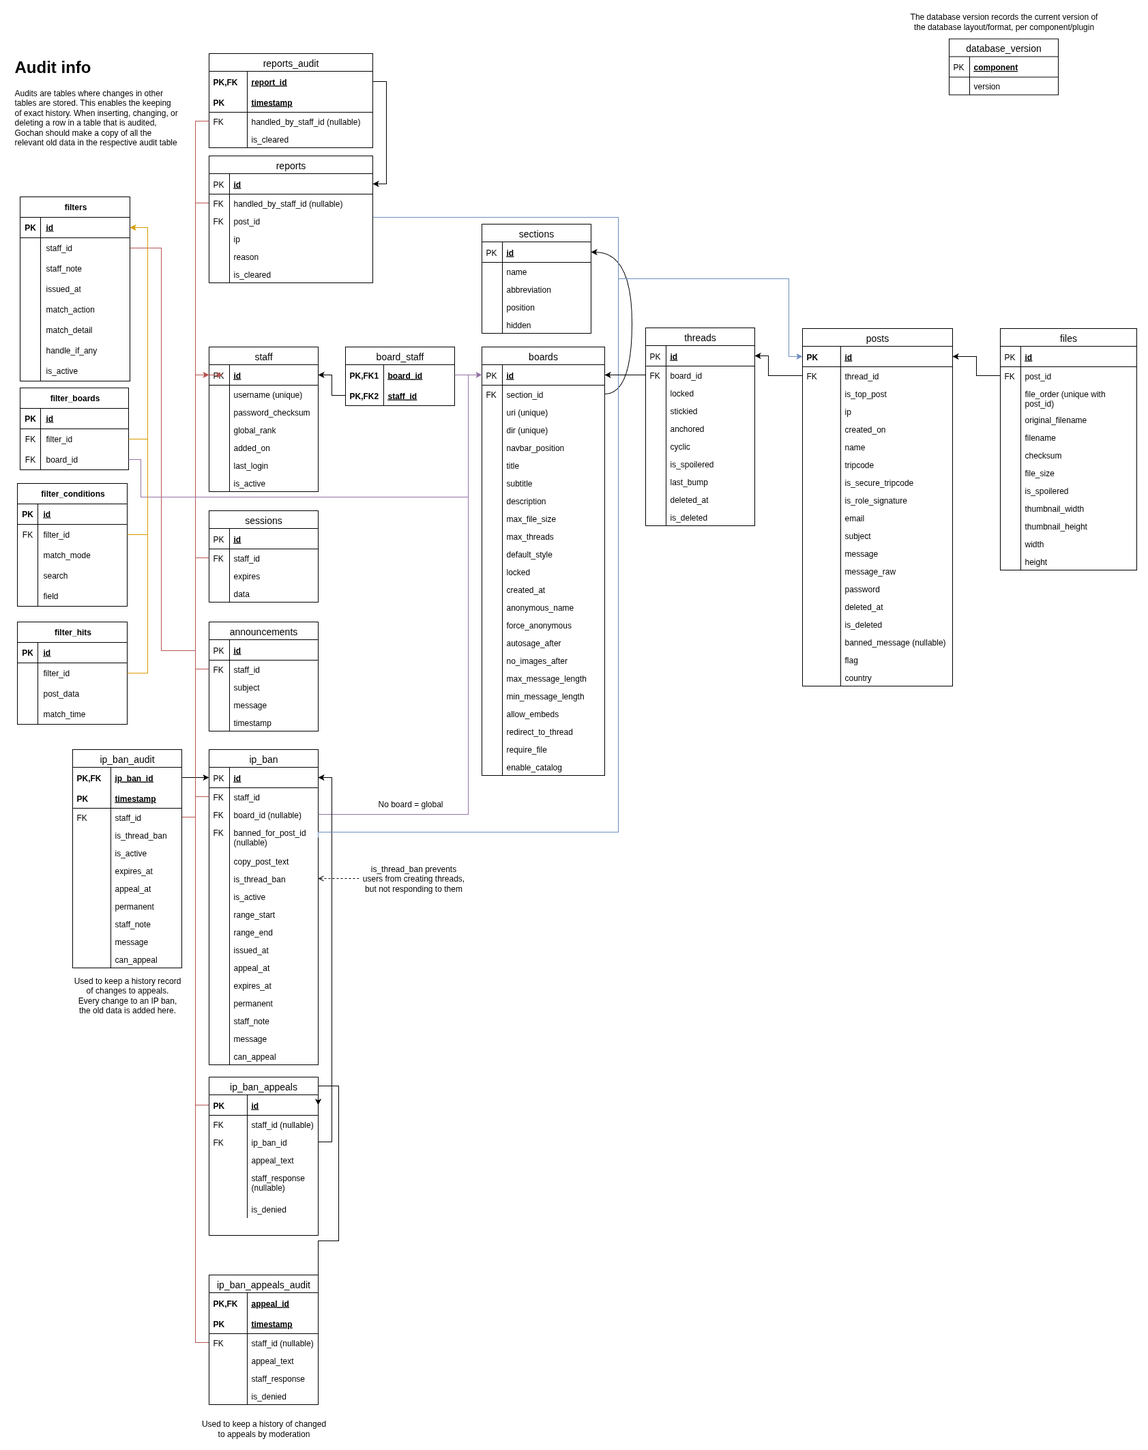
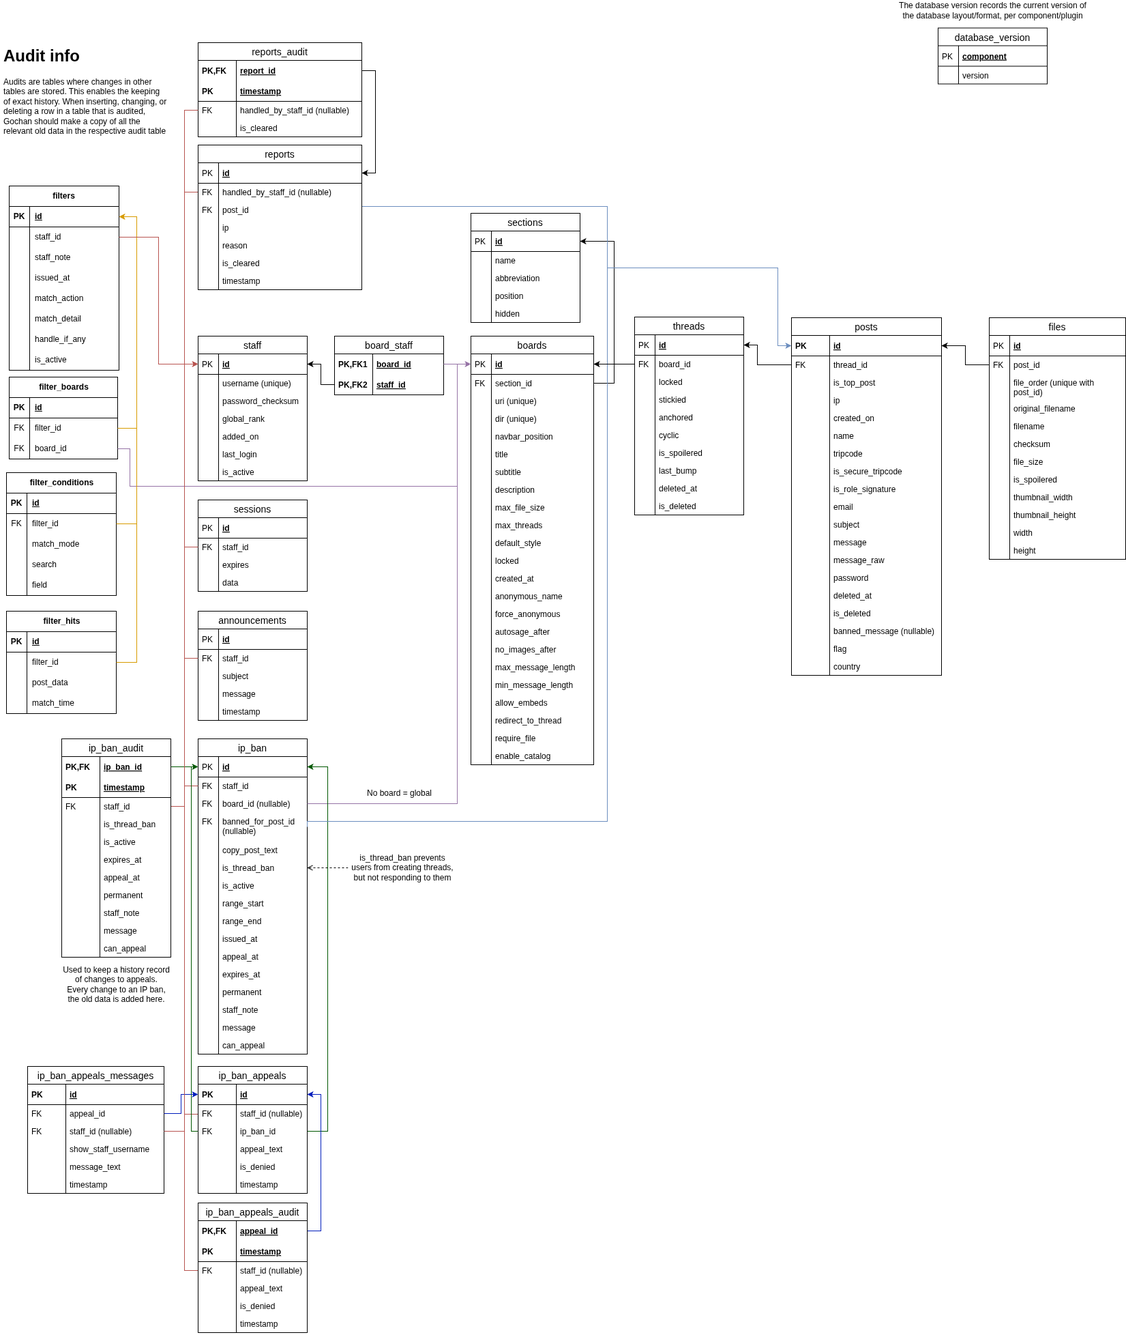
Add timestamp and message tracking for IP ban appeals (to be implemented later), and timestamps for reports

diff --git a/frontend/ts/types/index.d.ts b/frontend/ts/types/index.d.ts
@@ -36,7 +36,6 @@ declare global {
 		id: number;
 		ban_id: number;
 		appeal_text: string;
-		staff_response?: string;
 		is_denied: boolean;
 	}
 

diff --git a/pkg/gcsql/setup_test.go b/pkg/gcsql/setup_test.go
@@ -34,9 +34,10 @@ var (
 		`CREATE TABLE announcements\(\s+id BIGINT NOT NULL AUTO_INCREMENT UNIQUE PRIMARY KEY,\s+staff_id BIGINT NOT NULL,\s+subject VARCHAR\(45\) NOT NULL,\s+message TEXT NOT NULL,\s+timestamp TIMESTAMP NOT NULL DEFAULT CURRENT_TIMESTAMP,\s+CONSTRAINT announcements_staff_id_fk FOREIGN KEY\(staff_id\) REFERENCES staff\(id\) \)`,
 		`CREATE TABLE ip_ban\(\s+id BIGINT NOT NULL AUTO_INCREMENT UNIQUE PRIMARY KEY,\s+staff_id BIGINT NOT NULL, board_id BIGINT, banned_for_post_id BIGINT, copy_post_text TEXT NOT NULL, is_thread_ban BOOL NOT NULL, is_active BOOL NOT NULL, range_start VARBINARY\(16\) NOT NULL, range_end VARBINARY\(16\) NOT NULL, issued_at TIMESTAMP NOT NULL DEFAULT CURRENT_TIMESTAMP, appeal_at TIMESTAMP NOT NULL DEFAULT CURRENT_TIMESTAMP, expires_at TIMESTAMP NOT NULL DEFAULT CURRENT_TIMESTAMP, permanent BOOL NOT NULL, staff_note VARCHAR\(255\) NOT NULL, message TEXT NOT NULL, can_appeal BOOL NOT NULL, CONSTRAINT ip_ban_board_id_fk FOREIGN KEY\(board_id\) REFERENCES boards\(id\) ON DELETE CASCADE, CONSTRAINT ip_ban_staff_id_fk FOREIGN KEY\(staff_id\) REFERENCES staff\(id\), CONSTRAINT ip_ban_banned_for_post_id_fk FOREIGN KEY\(banned_for_post_id\) REFERENCES posts\(id\) ON DELETE SET NULL \)`,
 		`CREATE TABLE ip_ban_audit\(\s+ip_ban_id BIGINT NOT NULL,\s+timestamp TIMESTAMP NOT NULL DEFAULT CURRENT_TIMESTAMP,\s+staff_id BIGINT NOT NULL,\s+is_active BOOL NOT NULL,\s+is_thread_ban BOOL NOT NULL,\s+expires_at TIMESTAMP NOT NULL DEFAULT CURRENT_TIMESTAMP,\s+appeal_at TIMESTAMP NOT NULL DEFAULT CURRENT_TIMESTAMP,\s+permanent BOOL NOT NULL,\s+staff_note VARCHAR\(255\) NOT NULL,\s+message TEXT NOT NULL,\s+can_appeal BOOL NOT NULL,\s+PRIMARY KEY\(ip_ban_id, timestamp\),\s+CONSTRAINT ip_ban_audit_ip_ban_id_fk\s+FOREIGN KEY\(ip_ban_id\) REFERENCES ip_ban\(id\) ON DELETE CASCADE,\s+CONSTRAINT ip_ban_audit_staff_id_fk\s+FOREIGN KEY\(staff_id\) REFERENCES staff\(id\)\s+\)`,
-		`CREATE TABLE ip_ban_appeals\(\s+id BIGINT NOT NULL AUTO_INCREMENT UNIQUE PRIMARY KEY,\s+staff_id BIGINT,\s+ip_ban_id BIGINT NOT NULL,\s+appeal_text TEXT NOT NULL,\s+staff_response TEXT,\s+is_denied BOOL NOT NULL,\s+CONSTRAINT ip_ban_appeals_staff_id_fk\s+FOREIGN KEY\(staff_id\) REFERENCES staff\(id\),\s+CONSTRAINT ip_ban_appeals_ip_ban_id_fk\s+FOREIGN KEY\(ip_ban_id\) REFERENCES ip_ban\(id\) ON DELETE CASCADE \)`,
-		`CREATE TABLE ip_ban_appeals_audit\(\s+appeal_id BIGINT NOT NULL,\s+timestamp TIMESTAMP NOT NULL DEFAULT CURRENT_TIMESTAMP,\s+staff_id BIGINT,\s+appeal_text TEXT NOT NULL,\s+staff_response TEXT,\s+is_denied BOOL NOT NULL,\s+PRIMARY KEY\(appeal_id, timestamp\),\s+CONSTRAINT ip_ban_appeals_audit_staff_id_fk\s+FOREIGN KEY\(staff_id\) REFERENCES staff\(id\),\s+CONSTRAINT ip_ban_appeals_audit_appeal_id_fk\s+FOREIGN KEY\(appeal_id\) REFERENCES ip_ban_appeals\(id\)\s+ON DELETE CASCADE \)`,
-		`CREATE TABLE reports\(\s+id BIGINT NOT NULL AUTO_INCREMENT UNIQUE PRIMARY KEY,\s+handled_by_staff_id BIGINT,\s+post_id BIGINT NOT NULL,\s+ip VARBINARY\(16\) NOT NULL,\s+reason TEXT NOT NULL,\s+is_cleared BOOL NOT NULL,\s+CONSTRAINT reports_handled_by_staff_id_fk\s+FOREIGN KEY\(handled_by_staff_id\) REFERENCES staff\(id\),  CONSTRAINT reports_post_id_fk\s+FOREIGN KEY\(post_id\) REFERENCES posts\(id\) ON DELETE CASCADE \)`,
+		`CREATE TABLE ip_ban_appeals\(\s+id BIGINT NOT NULL AUTO_INCREMENT UNIQUE PRIMARY KEY,\s+staff_id BIGINT,\s+ip_ban_id BIGINT NOT NULL,\s+appeal_text TEXT NOT NULL,\s+is_denied BOOL NOT NULL,\s+timestamp TIMESTAMP NOT NULL DEFAULT CURRENT_TIMESTAMP,\s+CONSTRAINT ip_ban_appeals_staff_id_fk\s+FOREIGN KEY\(staff_id\) REFERENCES staff\(id\),\s+CONSTRAINT ip_ban_appeals_ip_ban_id_fk\s+FOREIGN KEY\(ip_ban_id\) REFERENCES ip_ban\(id\) ON DELETE CASCADE \)`,
+		`CREATE TABLE ip_ban_appeals_audit\(\s+appeal_id BIGINT NOT NULL,\s+staff_id BIGINT,\s+appeal_text TEXT NOT NULL,\s+is_denied BOOL NOT NULL,\s+timestamp TIMESTAMP NOT NULL DEFAULT CURRENT_TIMESTAMP,\s+PRIMARY KEY\(appeal_id, timestamp\),\s+CONSTRAINT ip_ban_appeals_audit_staff_id_fk\s+FOREIGN KEY\(staff_id\) REFERENCES staff\(id\),\s+CONSTRAINT ip_ban_appeals_audit_appeal_id_fk\s+FOREIGN KEY\(appeal_id\) REFERENCES ip_ban_appeals\(id\)\s+ON DELETE CASCADE \)`,
+		`CREATE TABLE ip_ban_appeals_messages\(\s+id BIGINT NOT NULL AUTO_INCREMENT UNIQUE PRIMARY KEY,\s+appeal_id BIGINT NOT NULL,\s+staff_id BIGINT,\s+message_text TEXT NOT NULL,\s+timestamp TIMESTAMP NOT NULL DEFAULT CURRENT_TIMESTAMP,\s+CONSTRAINT ip_ban_appeals_messages_appeal_id_fk\s+FOREIGN KEY\(appeal_id\) REFERENCES ip_ban_appeals\(id\) ON DELETE CASCADE,\s+CONSTRAINT ip_ban_appeals_messages_staff_id_fk\s+FOREIGN KEY\(staff_id\) REFERENCES staff\(id\) ON DELETE SET NULL\s+\)`,
+		`CREATE TABLE reports\(\s+id BIGINT NOT NULL AUTO_INCREMENT UNIQUE PRIMARY KEY,\s+handled_by_staff_id BIGINT,\s+post_id BIGINT NOT NULL,\s+ip VARBINARY\(16\) NOT NULL,\s+reason TEXT NOT NULL,\s+is_cleared BOOL NOT NULL,\s+timestamp TIMESTAMP NOT NULL DEFAULT CURRENT_TIMESTAMP,\s+CONSTRAINT reports_handled_by_staff_id_fk\s+FOREIGN KEY\(handled_by_staff_id\) REFERENCES staff\(id\),  CONSTRAINT reports_post_id_fk\s+FOREIGN KEY\(post_id\) REFERENCES posts\(id\) ON DELETE CASCADE \)`,
 		`CREATE TABLE reports_audit\(\s+report_id BIGINT NOT NULL,\s+timestamp TIMESTAMP NOT NULL DEFAULT CURRENT_TIMESTAMP,\s+handled_by_staff_id BIGINT,\s+is_cleared BOOL NOT NULL,\s+CONSTRAINT reports_audit_handled_by_staff_id_fk\s+FOREIGN KEY\(handled_by_staff_id\) REFERENCES staff\(id\),\s+CONSTRAINT reports_audit_report_id_fk\s+FOREIGN KEY\(report_id\) REFERENCES reports\(id\) ON DELETE CASCADE\s+\)`,
 		`CREATE TABLE filters\(\s*id BIGINT NOT NULL AUTO_INCREMENT UNIQUE PRIMARY KEY,\s*staff_id BIGINT,\s*staff_note VARCHAR\(255\) NOT NULL,\s*issued_at TIMESTAMP NOT NULL DEFAULT CURRENT_TIMESTAMP,\s*match_action VARCHAR\(45\) NOT NULL DEFAULT 'replace',\s*match_detail TEXT NOT NULL,\s*handle_if_any BOOL NOT NULL DEFAULT FALSE,\s*is_active BOOL NOT NULL,\s*CONSTRAINT filters_staff_id_fk\s*FOREIGN KEY\(staff_id\) REFERENCES staff\(id\)\s*ON DELETE SET NULL\s*\)`,
 		`CREATE TABLE filter_boards\(\s*id BIGINT NOT NULL AUTO_INCREMENT UNIQUE PRIMARY KEY,\s*filter_id BIGINT NOT NULL,\s*board_id BIGINT NOT NULL,\s*CONSTRAINT filter_boards_filter_id_fk\s*FOREIGN KEY\(filter_id\) REFERENCES filters\(id\)\s*ON DELETE CASCADE,\s*CONSTRAINT filter_boards_board_id_fk\s*FOREIGN KEY\(board_id\)\s*REFERENCES boards\(id\)\s*ON DELETE CASCADE\s*\)`,
@@ -59,9 +60,10 @@ var (
 		`CREATE TABLE announcements\(\s+id BIGSERIAL PRIMARY KEY,\s+staff_id BIGINT NOT NULL,\s+subject VARCHAR\(45\) NOT NULL,\s+message TEXT NOT NULL,\s+timestamp TIMESTAMP NOT NULL DEFAULT CURRENT_TIMESTAMP,\s+CONSTRAINT announcements_staff_id_fk FOREIGN KEY\(staff_id\) REFERENCES staff\(id\) \)`,
 		`CREATE TABLE ip_ban\(\s+id BIGSERIAL PRIMARY KEY,\s+staff_id BIGINT NOT NULL, board_id BIGINT, banned_for_post_id BIGINT, copy_post_text TEXT NOT NULL, is_thread_ban BOOL NOT NULL, is_active BOOL NOT NULL, range_start INET NOT NULL, range_end INET NOT NULL, issued_at TIMESTAMP NOT NULL DEFAULT CURRENT_TIMESTAMP, appeal_at TIMESTAMP NOT NULL DEFAULT CURRENT_TIMESTAMP, expires_at TIMESTAMP NOT NULL DEFAULT CURRENT_TIMESTAMP, permanent BOOL NOT NULL, staff_note VARCHAR\(255\) NOT NULL, message TEXT NOT NULL, can_appeal BOOL NOT NULL, CONSTRAINT ip_ban_board_id_fk FOREIGN KEY\(board_id\) REFERENCES boards\(id\) ON DELETE CASCADE, CONSTRAINT ip_ban_staff_id_fk FOREIGN KEY\(staff_id\) REFERENCES staff\(id\), CONSTRAINT ip_ban_banned_for_post_id_fk FOREIGN KEY\(banned_for_post_id\) REFERENCES posts\(id\) ON DELETE SET NULL \)`,
 		`CREATE TABLE ip_ban_audit\(\s+ip_ban_id BIGINT NOT NULL,\s+timestamp TIMESTAMP NOT NULL DEFAULT CURRENT_TIMESTAMP,\s+staff_id BIGINT NOT NULL,\s+is_active BOOL NOT NULL,\s+is_thread_ban BOOL NOT NULL,\s+expires_at TIMESTAMP NOT NULL DEFAULT CURRENT_TIMESTAMP,\s+appeal_at TIMESTAMP NOT NULL DEFAULT CURRENT_TIMESTAMP,\s+permanent BOOL NOT NULL,\s+staff_note VARCHAR\(255\) NOT NULL,\s+message TEXT NOT NULL,\s+can_appeal BOOL NOT NULL,\s+PRIMARY KEY\(ip_ban_id, timestamp\),\s+CONSTRAINT ip_ban_audit_ip_ban_id_fk\s+FOREIGN KEY\(ip_ban_id\) REFERENCES ip_ban\(id\) ON DELETE CASCADE,\s+CONSTRAINT ip_ban_audit_staff_id_fk\s+FOREIGN KEY\(staff_id\) REFERENCES staff\(id\)\s+\)`,
-		`CREATE TABLE ip_ban_appeals\(\s+id BIGSERIAL PRIMARY KEY,\s+staff_id BIGINT,\s+ip_ban_id BIGINT NOT NULL,\s+appeal_text TEXT NOT NULL,\s+staff_response TEXT,\s+is_denied BOOL NOT NULL,\s+CONSTRAINT ip_ban_appeals_staff_id_fk\s+FOREIGN KEY\(staff_id\) REFERENCES staff\(id\),\s+CONSTRAINT ip_ban_appeals_ip_ban_id_fk\s+FOREIGN KEY\(ip_ban_id\) REFERENCES ip_ban\(id\) ON DELETE CASCADE \)`,
-		`CREATE TABLE ip_ban_appeals_audit\(\s+appeal_id BIGINT NOT NULL,\s+timestamp TIMESTAMP NOT NULL DEFAULT CURRENT_TIMESTAMP,\s+staff_id BIGINT,\s+appeal_text TEXT NOT NULL,\s+staff_response TEXT,\s+is_denied BOOL NOT NULL,\s+PRIMARY KEY\(appeal_id, timestamp\),\s+CONSTRAINT ip_ban_appeals_audit_staff_id_fk\s+FOREIGN KEY\(staff_id\) REFERENCES staff\(id\),\s+CONSTRAINT ip_ban_appeals_audit_appeal_id_fk\s+FOREIGN KEY\(appeal_id\) REFERENCES ip_ban_appeals\(id\)\s+ON DELETE CASCADE \)`,
-		`CREATE TABLE reports\(\s+id BIGSERIAL PRIMARY KEY,\s+handled_by_staff_id BIGINT,\s+post_id BIGINT NOT NULL,\s+ip INET NOT NULL,\s+reason TEXT NOT NULL,\s+is_cleared BOOL NOT NULL,\s+CONSTRAINT reports_handled_by_staff_id_fk\s+FOREIGN KEY\(handled_by_staff_id\) REFERENCES staff\(id\),  CONSTRAINT reports_post_id_fk\s+FOREIGN KEY\(post_id\) REFERENCES posts\(id\) ON DELETE CASCADE \)`,
+		`CREATE TABLE ip_ban_appeals\(\s+id BIGSERIAL PRIMARY KEY,\s+staff_id BIGINT,\s+ip_ban_id BIGINT NOT NULL,\s+appeal_text TEXT NOT NULL,\s+is_denied BOOL NOT NULL,\s+timestamp TIMESTAMP NOT NULL DEFAULT CURRENT_TIMESTAMP,\s+CONSTRAINT ip_ban_appeals_staff_id_fk\s+FOREIGN KEY\(staff_id\) REFERENCES staff\(id\),\s+CONSTRAINT ip_ban_appeals_ip_ban_id_fk\s+FOREIGN KEY\(ip_ban_id\) REFERENCES ip_ban\(id\) ON DELETE CASCADE \)`,
+		`CREATE TABLE ip_ban_appeals_audit\(\s+appeal_id BIGINT NOT NULL,\s+staff_id BIGINT,\s+appeal_text TEXT NOT NULL,\s+is_denied BOOL NOT NULL,\s+timestamp TIMESTAMP NOT NULL DEFAULT CURRENT_TIMESTAMP,\s+PRIMARY KEY\(appeal_id, timestamp\),\s+CONSTRAINT ip_ban_appeals_audit_staff_id_fk\s+FOREIGN KEY\(staff_id\) REFERENCES staff\(id\),\s+CONSTRAINT ip_ban_appeals_audit_appeal_id_fk\s+FOREIGN KEY\(appeal_id\) REFERENCES ip_ban_appeals\(id\)\s+ON DELETE CASCADE \)`,
+		`CREATE TABLE ip_ban_appeals_messages\(\s+id BIGSERIAL PRIMARY KEY,\s+appeal_id BIGINT NOT NULL,\s+staff_id BIGINT,\s+message_text TEXT NOT NULL,\s+timestamp TIMESTAMP NOT NULL DEFAULT CURRENT_TIMESTAMP,\s+CONSTRAINT ip_ban_appeals_messages_appeal_id_fk\s+FOREIGN KEY\(appeal_id\) REFERENCES ip_ban_appeals\(id\) ON DELETE CASCADE,\s+CONSTRAINT ip_ban_appeals_messages_staff_id_fk\s+FOREIGN KEY\(staff_id\) REFERENCES staff\(id\) ON DELETE SET NULL\s+\)`,
+		`CREATE TABLE reports\(\s+id BIGSERIAL PRIMARY KEY,\s+handled_by_staff_id BIGINT,\s+post_id BIGINT NOT NULL,\s+ip INET NOT NULL,\s+reason TEXT NOT NULL,\s+is_cleared BOOL NOT NULL,\s+timestamp TIMESTAMP NOT NULL DEFAULT CURRENT_TIMESTAMP,\s+CONSTRAINT reports_handled_by_staff_id_fk\s+FOREIGN KEY\(handled_by_staff_id\) REFERENCES staff\(id\),  CONSTRAINT reports_post_id_fk\s+FOREIGN KEY\(post_id\) REFERENCES posts\(id\) ON DELETE CASCADE \)`,
 		`CREATE TABLE reports_audit\(\s+report_id BIGINT NOT NULL,\s+timestamp TIMESTAMP NOT NULL DEFAULT CURRENT_TIMESTAMP,\s+handled_by_staff_id BIGINT,\s+is_cleared BOOL NOT NULL,\s+CONSTRAINT reports_audit_handled_by_staff_id_fk\s+FOREIGN KEY\(handled_by_staff_id\) REFERENCES staff\(id\),\s+CONSTRAINT reports_audit_report_id_fk\s+FOREIGN KEY\(report_id\) REFERENCES reports\(id\) ON DELETE CASCADE\s+\)`,
 		`CREATE TABLE filters\(\s*id BIGSERIAL PRIMARY KEY,\s*staff_id BIGINT,\s*staff_note VARCHAR\(255\) NOT NULL,\s*issued_at TIMESTAMP NOT NULL DEFAULT CURRENT_TIMESTAMP,\s*match_action VARCHAR\(45\) NOT NULL DEFAULT 'replace',\s*match_detail TEXT NOT NULL,\s*handle_if_any BOOL NOT NULL DEFAULT FALSE,\s*is_active BOOL NOT NULL,\s*CONSTRAINT filters_staff_id_fk\s*FOREIGN KEY\(staff_id\) REFERENCES staff\(id\)\s*ON DELETE SET NULL\s*\)`,
 		`CREATE TABLE filter_boards\(\s*id BIGSERIAL PRIMARY KEY,\s*filter_id BIGINT NOT NULL,\s*board_id BIGINT NOT NULL,\s*CONSTRAINT filter_boards_filter_id_fk\s*FOREIGN KEY\(filter_id\) REFERENCES filters\(id\)\s*ON DELETE CASCADE,\s*CONSTRAINT filter_boards_board_id_fk\s*FOREIGN KEY\(board_id\) REFERENCES boards\(id\)\s*ON DELETE CASCADE\s*\)`,
@@ -84,9 +86,10 @@ var (
 		`CREATE TABLE announcements\(\s+id INTEGER PRIMARY KEY AUTOINCREMENT NOT NULL,\s+staff_id BIGINT NOT NULL,\s+subject VARCHAR\(45\) NOT NULL,\s+message TEXT NOT NULL,\s+timestamp TIMESTAMP NOT NULL DEFAULT CURRENT_TIMESTAMP,\s+CONSTRAINT announcements_staff_id_fk FOREIGN KEY\(staff_id\) REFERENCES staff\(id\) \)`,
 		`CREATE TABLE ip_ban\(\s+id INTEGER PRIMARY KEY AUTOINCREMENT NOT NULL,\s+staff_id BIGINT NOT NULL, board_id BIGINT, banned_for_post_id BIGINT, copy_post_text TEXT NOT NULL, is_thread_ban BOOL NOT NULL, is_active BOOL NOT NULL, range_start VARCHAR\(45\) NOT NULL, range_end VARCHAR\(45\) NOT NULL, issued_at TIMESTAMP NOT NULL DEFAULT CURRENT_TIMESTAMP, appeal_at TIMESTAMP NOT NULL DEFAULT CURRENT_TIMESTAMP, expires_at TIMESTAMP NOT NULL DEFAULT CURRENT_TIMESTAMP, permanent BOOL NOT NULL, staff_note VARCHAR\(255\) NOT NULL, message TEXT NOT NULL, can_appeal BOOL NOT NULL, CONSTRAINT ip_ban_board_id_fk FOREIGN KEY\(board_id\) REFERENCES boards\(id\) ON DELETE CASCADE, CONSTRAINT ip_ban_staff_id_fk FOREIGN KEY\(staff_id\) REFERENCES staff\(id\), CONSTRAINT ip_ban_banned_for_post_id_fk FOREIGN KEY\(banned_for_post_id\) REFERENCES posts\(id\) ON DELETE SET NULL \)`,
 		`CREATE TABLE ip_ban_audit\(\s+ip_ban_id BIGINT NOT NULL,\s+timestamp TIMESTAMP NOT NULL DEFAULT CURRENT_TIMESTAMP,\s+staff_id BIGINT NOT NULL,\s+is_active BOOL NOT NULL,\s+is_thread_ban BOOL NOT NULL,\s+expires_at TIMESTAMP NOT NULL DEFAULT CURRENT_TIMESTAMP,\s+appeal_at TIMESTAMP NOT NULL DEFAULT CURRENT_TIMESTAMP,\s+permanent BOOL NOT NULL,\s+staff_note VARCHAR\(255\) NOT NULL,\s+message TEXT NOT NULL,\s+can_appeal BOOL NOT NULL,\s+PRIMARY KEY\(ip_ban_id, timestamp\),\s+CONSTRAINT ip_ban_audit_ip_ban_id_fk\s+FOREIGN KEY\(ip_ban_id\) REFERENCES ip_ban\(id\) ON DELETE CASCADE,\s+CONSTRAINT ip_ban_audit_staff_id_fk\s+FOREIGN KEY\(staff_id\) REFERENCES staff\(id\)\s+\)`,
-		`CREATE TABLE ip_ban_appeals\(\s+id INTEGER PRIMARY KEY AUTOINCREMENT NOT NULL,\s+staff_id BIGINT,\s+ip_ban_id BIGINT NOT NULL,\s+appeal_text TEXT NOT NULL,\s+staff_response TEXT,\s+is_denied BOOL NOT NULL,\s+CONSTRAINT ip_ban_appeals_staff_id_fk\s+FOREIGN KEY\(staff_id\) REFERENCES staff\(id\),\s+CONSTRAINT ip_ban_appeals_ip_ban_id_fk\s+FOREIGN KEY\(ip_ban_id\) REFERENCES ip_ban\(id\) ON DELETE CASCADE \)`,
-		`CREATE TABLE ip_ban_appeals_audit\(\s+appeal_id BIGINT NOT NULL,\s+timestamp TIMESTAMP NOT NULL DEFAULT CURRENT_TIMESTAMP,\s+staff_id BIGINT,\s+appeal_text TEXT NOT NULL,\s+staff_response TEXT,\s+is_denied BOOL NOT NULL,\s+PRIMARY KEY\(appeal_id, timestamp\),\s+CONSTRAINT ip_ban_appeals_audit_staff_id_fk\s+FOREIGN KEY\(staff_id\) REFERENCES staff\(id\),\s+CONSTRAINT ip_ban_appeals_audit_appeal_id_fk\s+FOREIGN KEY\(appeal_id\) REFERENCES ip_ban_appeals\(id\)\s+ON DELETE CASCADE \)`,
-		`CREATE TABLE reports\(\s+id INTEGER PRIMARY KEY AUTOINCREMENT NOT NULL,\s+handled_by_staff_id BIGINT,\s+post_id BIGINT NOT NULL,\s+ip VARCHAR\(45\) NOT NULL,\s+reason TEXT NOT NULL,\s+is_cleared BOOL NOT NULL,\s+CONSTRAINT reports_handled_by_staff_id_fk\s+FOREIGN KEY\(handled_by_staff_id\) REFERENCES staff\(id\),  CONSTRAINT reports_post_id_fk\s+FOREIGN KEY\(post_id\) REFERENCES posts\(id\) ON DELETE CASCADE \)`,
+		`CREATE TABLE ip_ban_appeals\(\s+id INTEGER PRIMARY KEY AUTOINCREMENT NOT NULL,\s+staff_id BIGINT,\s+ip_ban_id BIGINT NOT NULL,\s+appeal_text TEXT NOT NULL,\s+is_denied BOOL NOT NULL,\s+timestamp TIMESTAMP NOT NULL DEFAULT CURRENT_TIMESTAMP,\s+CONSTRAINT ip_ban_appeals_staff_id_fk\s+FOREIGN KEY\(staff_id\) REFERENCES staff\(id\),\s+CONSTRAINT ip_ban_appeals_ip_ban_id_fk\s+FOREIGN KEY\(ip_ban_id\) REFERENCES ip_ban\(id\) ON DELETE CASCADE \)`,
+		`CREATE TABLE ip_ban_appeals_audit\(\s+appeal_id BIGINT NOT NULL,\s+staff_id BIGINT,\s+appeal_text TEXT NOT NULL,\s+is_denied BOOL NOT NULL,\s+timestamp TIMESTAMP NOT NULL DEFAULT CURRENT_TIMESTAMP,\s+PRIMARY KEY\(appeal_id, timestamp\),\s+CONSTRAINT ip_ban_appeals_audit_staff_id_fk\s+FOREIGN KEY\(staff_id\) REFERENCES staff\(id\),\s+CONSTRAINT ip_ban_appeals_audit_appeal_id_fk\s+FOREIGN KEY\(appeal_id\) REFERENCES ip_ban_appeals\(id\)\s+ON DELETE CASCADE \)`,
+		`CREATE TABLE ip_ban_appeals_messages\(\s+id INTEGER PRIMARY KEY AUTOINCREMENT NOT NULL,\s+appeal_id BIGINT NOT NULL,\s+staff_id BIGINT,\s+message_text TEXT NOT NULL,\s+timestamp TIMESTAMP NOT NULL DEFAULT CURRENT_TIMESTAMP,\s+CONSTRAINT ip_ban_appeals_messages_appeal_id_fk\s+FOREIGN KEY\(appeal_id\) REFERENCES ip_ban_appeals\(id\) ON DELETE CASCADE,\s+CONSTRAINT ip_ban_appeals_messages_staff_id_fk\s+FOREIGN KEY\(staff_id\) REFERENCES staff\(id\) ON DELETE SET NULL\s+\)`,
+		`CREATE TABLE reports\(\s+id INTEGER PRIMARY KEY AUTOINCREMENT NOT NULL,\s+handled_by_staff_id BIGINT,\s+post_id BIGINT NOT NULL,\s+ip VARCHAR\(45\) NOT NULL,\s+reason TEXT NOT NULL,\s+is_cleared BOOL NOT NULL,\s+timestamp TIMESTAMP NOT NULL DEFAULT CURRENT_TIMESTAMP,\s+CONSTRAINT reports_handled_by_staff_id_fk\s+FOREIGN KEY\(handled_by_staff_id\) REFERENCES staff\(id\),  CONSTRAINT reports_post_id_fk\s+FOREIGN KEY\(post_id\) REFERENCES posts\(id\) ON DELETE CASCADE \)`,
 		`CREATE TABLE reports_audit\(\s+report_id BIGINT NOT NULL,\s+timestamp TIMESTAMP NOT NULL DEFAULT CURRENT_TIMESTAMP,\s+handled_by_staff_id BIGINT,\s+is_cleared BOOL NOT NULL,\s+CONSTRAINT reports_audit_handled_by_staff_id_fk\s+FOREIGN KEY\(handled_by_staff_id\) REFERENCES staff\(id\),\s+CONSTRAINT reports_audit_report_id_fk\s+FOREIGN KEY\(report_id\) REFERENCES reports\(id\) ON DELETE CASCADE\s+\)`,
 		`CREATE TABLE filters\(\s*id INTEGER PRIMARY KEY AUTOINCREMENT NOT NULL,\s*staff_id BIGINT,\s*staff_note VARCHAR\(255\) NOT NULL,\s*issued_at TIMESTAMP NOT NULL DEFAULT CURRENT_TIMESTAMP,\s*match_action VARCHAR\(45\) NOT NULL DEFAULT 'replace',\s*match_detail TEXT NOT NULL,\s*handle_if_any BOOL NOT NULL DEFAULT FALSE,\s*is_active BOOL NOT NULL,\s*CONSTRAINT filters_staff_id_fk\s*FOREIGN KEY\(staff_id\) REFERENCES staff\(id\)\s*ON DELETE SET NULL\s*\)`,
 		`CREATE TABLE filter_boards\(\s*id INTEGER PRIMARY KEY AUTOINCREMENT NOT NULL,\s*filter_id BIGINT NOT NULL,\s*board_id BIGINT NOT NULL,\s*CONSTRAINT filter_boards_filter_id_fk\s*FOREIGN KEY\(filter_id\) REFERENCES filters\(id\)\s*ON DELETE CASCADE,\s*CONSTRAINT filter_boards_board_id_fk\s*FOREIGN KEY\(board_id\) REFERENCES boards\(id\)\s*ON DELETE CASCADE\s*\)`,
@@ -97,7 +100,6 @@ var (
 )
 
 func setupAndProvisionMockDB(t *testing.T, mock sqlmock.Sqlmock, dbType string, dbName string) error {
-	t.Helper()
 	if gcdb == nil || gcdb.db == nil {
 		return ErrNotConnected
 	}

diff --git a/pkg/gcsql/appeals_test.go b/pkg/gcsql/appeals_test.go
@@ -95,7 +95,7 @@ func testRunnerGetAppeals(t *testing.T, tC *testCaseGetAppeals, driver string) {
 		return
 	}
 
-	query := `SELECT id, staff_id, staff_username, ip_ban_id, appeal_text, staff_response, is_denied, is_ban_active, ban_expires_at, timestamp FROM v_appeals`
+	query := `SELECT id, staff_id, staff_username, ip_ban_id, appeal_text, is_denied, is_ban_active, ban_expires_at, timestamp FROM v_appeals`
 	if tC.args.BanID > 0 {
 		switch driver {
 		case "mysql":
@@ -119,12 +119,12 @@ func testRunnerGetAppeals(t *testing.T, tC *testCaseGetAppeals, driver string) {
 		expectQuery.WithArgs(tC.args.BanID)
 	}
 
-	expectedRows := sqlmock.NewRows([]string{"id", "staff_id", "staff_username", "ip_ban_id", "appeal_text", "staff_response", "is_denied", "is_ban_active", "ban_expires_at", "timestamp"})
+	expectedRows := sqlmock.NewRows([]string{"id", "staff_id", "staff_username", "ip_ban_id", "appeal_text", "is_denied", "is_ban_active", "ban_expires_at", "timestamp"})
 	if len(tC.expectReturn) > 0 {
 		for _, expectedAppeal := range tC.expectReturn {
 			expectedRows.AddRow(
 				expectedAppeal.ID, expectedAppeal.StaffID, expectedAppeal.StaffUsername, expectedAppeal.IPBanID, expectedAppeal.AppealText,
-				expectedAppeal.StaffResponse, expectedAppeal.IsDenied, expectedAppeal.IsBanActive, expectedAppeal.BanExpiresAt, expectedAppeal.Timestamp,
+				expectedAppeal.IsDenied, expectedAppeal.IsBanActive, expectedAppeal.BanExpiresAt, expectedAppeal.Timestamp,
 			)
 		}
 	}
@@ -172,7 +172,7 @@ func testRunnerApproveAppeal(t *testing.T, tC *testCaseApproveAppeals, sqlDriver
 	deactivateSQL := `UPDATE ip_ban SET is_active = FALSE WHERE id = `
 	insertBanAudit := `INSERT INTO ip_ban_audit\s*\(ip_ban_id, staff_id, is_active, is_thread_ban, expires_at, appeal_at, permanent, ` +
 		`staff_note, message, can_appeal\)\s*VALUES\(`
-	insertAppealsAudit := `INSERT INTO ip_ban_appeals_audit \(appeal_id, appeal_text, staff_id, staff_response, is_denied\)\s*VALUES\(`
+	insertAppealsAudit := `INSERT INTO ip_ban_appeals_audit \(appeal_id, appeal_text, staff_id, is_denied\)\s*VALUES\(`
 	switch sqlDriver {
 	case "mysql":
 		checkAppealsSQL += `\?`

diff --git a/pkg/gcsql/appeals.go b/pkg/gcsql/appeals.go
@@ -40,7 +40,7 @@ func GetAppeals(options ...AppealsQueryOptions) ([]Appeal, error) {
 	}
 	opts.RequestOptions = setupOptionsWithTimeout(opts.RequestOptions)
 
-	query := `SELECT id, staff_id, staff_username, ip_ban_id, appeal_text, staff_response, is_denied, is_ban_active, ban_expires_at, timestamp FROM DBPREFIXv_appeals`
+	query := `SELECT id, staff_id, staff_username, ip_ban_id, appeal_text, is_denied, is_ban_active, ban_expires_at, timestamp FROM DBPREFIXv_appeals`
 	if opts.BanID > 0 {
 		query += " WHERE ip_ban_id = ?"
 	}
@@ -78,19 +78,15 @@ func GetAppeals(options ...AppealsQueryOptions) ([]Appeal, error) {
 		var appeal Appeal
 		var staffID *int
 		var staffUsername *string
-		var staffResponse *string
 		if err = rows.Scan(
-			&appeal.ID, &staffID, &staffUsername, &appeal.IPBanID, &appeal.AppealText, &staffResponse,
-			&appeal.IsDenied, &appeal.IsBanActive, &appeal.BanExpiresAt, &appeal.Timestamp,
+			&appeal.ID, &staffID, &staffUsername, &appeal.IPBanID, &appeal.AppealText, &appeal.IsDenied,
+			&appeal.IsBanActive, &appeal.BanExpiresAt, &appeal.Timestamp,
 		); err != nil {
 			return nil, err
 		}
 		if staffID != nil {
 			appeal.StaffID = *staffID
 			appeal.StaffUsername = *staffUsername
-		}
-		if staffResponse != nil {
-			appeal.StaffResponse = *staffResponse
 		}
 		appeals = append(appeals, appeal)
 	}
@@ -100,7 +96,7 @@ func GetAppeals(options ...AppealsQueryOptions) ([]Appeal, error) {
 // ApproveAppeal deactivates the ban that the appeal was submitted for
 func ApproveAppeal(appealID int, staffID int) error {
 	const checkAppealSQL = "SELECT ip_ban_id, is_ban_active FROM DBPREFIXv_appeals WHERE id = ? AND is_denied = FALSE"
-	const insertAppealAudit = `INSERT INTO DBPREFIXip_ban_appeals_audit (appeal_id, appeal_text, staff_id, staff_response, is_denied)
+	const insertAppealAudit = `INSERT INTO DBPREFIXip_ban_appeals_audit (appeal_id, appeal_text, staff_id, is_denied)
 		VALUES(?, (SELECT appeal_text FROM DBPREFIXip_ban_appeals WHERE id = ?), ?, 'Appeal approved, ban deactivated.', FALSE)`
 
 	opts := setupOptionsWithTimeout()

diff --git a/pkg/gcsql/tables.go b/pkg/gcsql/tables.go
@@ -202,10 +202,10 @@ type IPBanAudit struct {
 
 // used to composition IPBanAppeal and IPBanAppealAudit
 type ipBanAppealBase struct {
-	StaffID       int    `json:"-"`                  // sql: staff_id
-	AppealText    string `json:"appeal_text"`        // sql: appeal_text
-	StaffResponse string `json:"response,omitempty"` // sql: staff_response
-	IsDenied      bool   `json:"is_denied"`          // sql: is_denied
+	StaffID    int       `json:"-"`           // sql: staff_id
+	AppealText string    `json:"appeal_text"` // sql: appeal_text
+	IsDenied   bool      `json:"is_denied"`   // sql: is_denied
+	Timestamp  time.Time `json:"timestamp"`   // sql: timestamp
 }
 
 // table: DBPREFIXip_ban_appeals
@@ -217,8 +217,7 @@ type IPBanAppeal struct {
 
 // table: DBPREFIXip_ban_appeals_audit
 type IPBanAppealAudit struct {
-	AppealID  int       // sql: appeal_id
-	Timestamp time.Time // sql: timestamp
+	AppealID int // sql: appeal_id
 	ipBanAppealBase
 }
 
